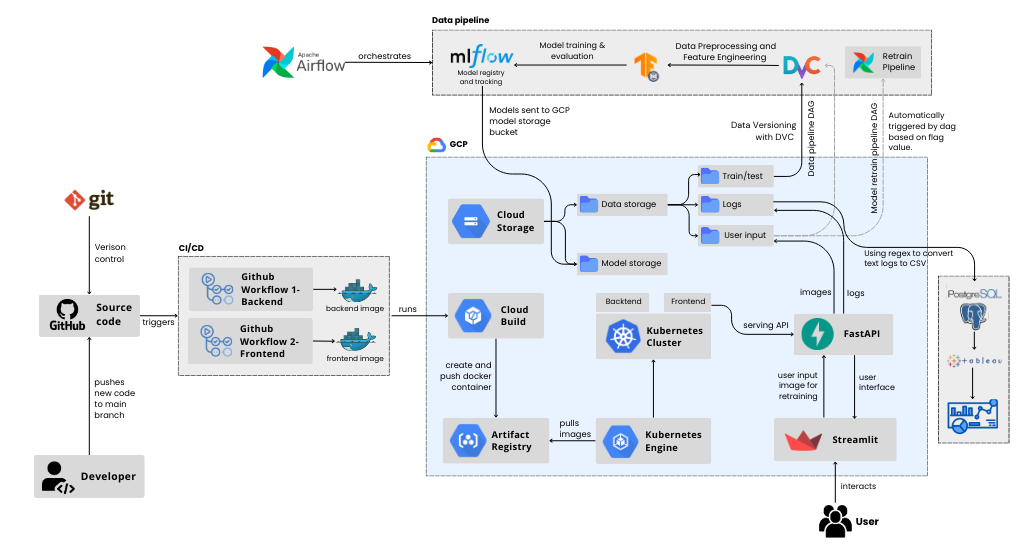
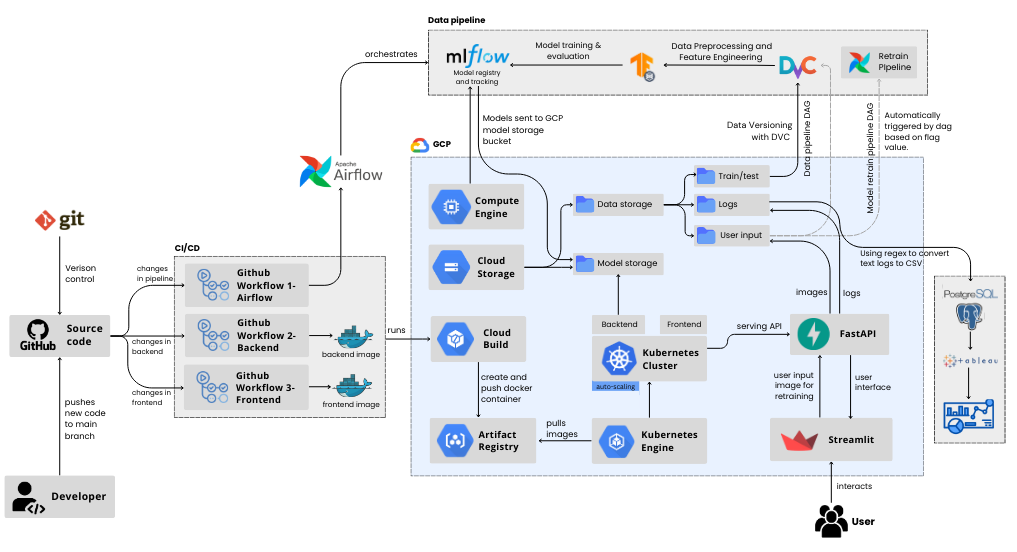
Readme

diff --git a/README.md b/README.md
@@ -182,6 +182,15 @@ Link: `http://35.231.160.55/`
 
 ## Monitoring Dashboard
 
+The below monitoring dashboard provides a comprehensive view of the performance and usage of our brain tumor classification system.
+1. **Count of Inferences**- To give a basic overview of the total number of inferences (predictions) made by the system.
+2. **Count of Inference Classes**-Break down  the number of inferences made for each class which will help in understanding the distribution of predictions across different tumor types. 
+3. **Average Probability by Class**- To get an insight into the model's confidence in its predictions for each class.
+4. **Number of Feedbacks Received**- This bar chart shows the number of feedback entries received, categorized by whether the feedback indicated a correct (True) or incorrect (False) prediction. This metric helps in monitoring the accuracy and reliability of the model.
+5. **Average Latency per Class**- This bar chart displays the average time taken to generate predictions for each class. It helps in assessing the performance and efficiency of the model in processing different types of MRI images.
+6. **Validated Images**- This pie chart shows the proportion of images that were validated (correctly classified) versus those that were not. It provides a quick visual representation of the model's validation accuracy.
+6. **Correlation**- The correlation chart indicates the validation status of user-input images. A value of 1 means a high correlation with our histogram.pkl file, confirming the image as a valid MRI. A value of 0 indicates a low correlation, suggesting the image may not be a valid MRI. If we notice a high frequency of 0 correlations, it may signal an issue with the validation process, potentially due to changes in MRI image formats. This will prompt us to review validation logs and update our system accordingly.
+
 ![picture alt](assets/dashboard.jpeg)
 
 ## Contributors
